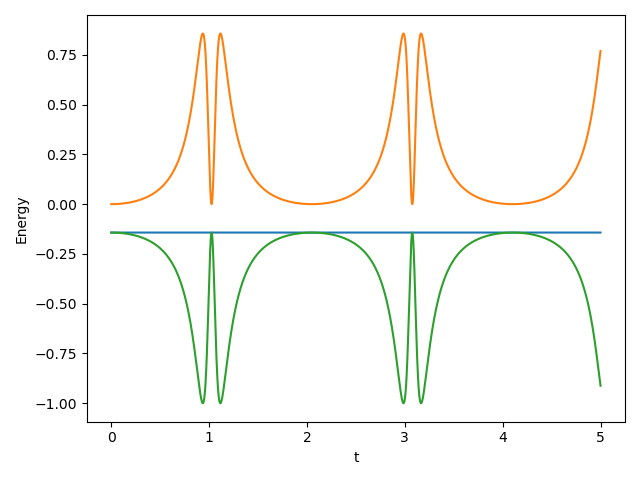
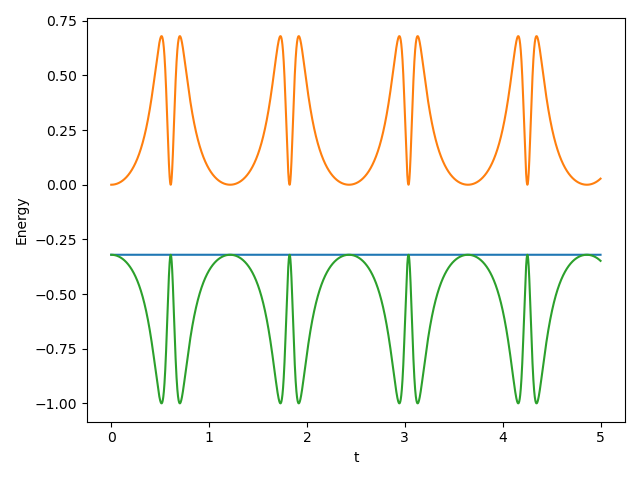
update

diff --git a/doc/src/Homeworks/Misc/test.py b/doc/src/Homeworks/Misc/test.py
@@ -66,9 +66,9 @@ r2 = np.zeros((n,3))
 v2 = np.zeros((n,3))
 
 # Initial conditions as compact arrays as functions of time (n) and x, y and z
-r10 = np.array([1.0,1.0,1.0])
+r10 = np.array([1.5,0.0,0.0])
 r1[0] = r10
-r20 = np.array([2.0,0.0,2.0])
+r20 = np.array([0.0,0.0,0.0])
 r2[0] = r20
 # Can easily change to other initial conditions
 v10 = np.array([0.0,0.0,0.0])
